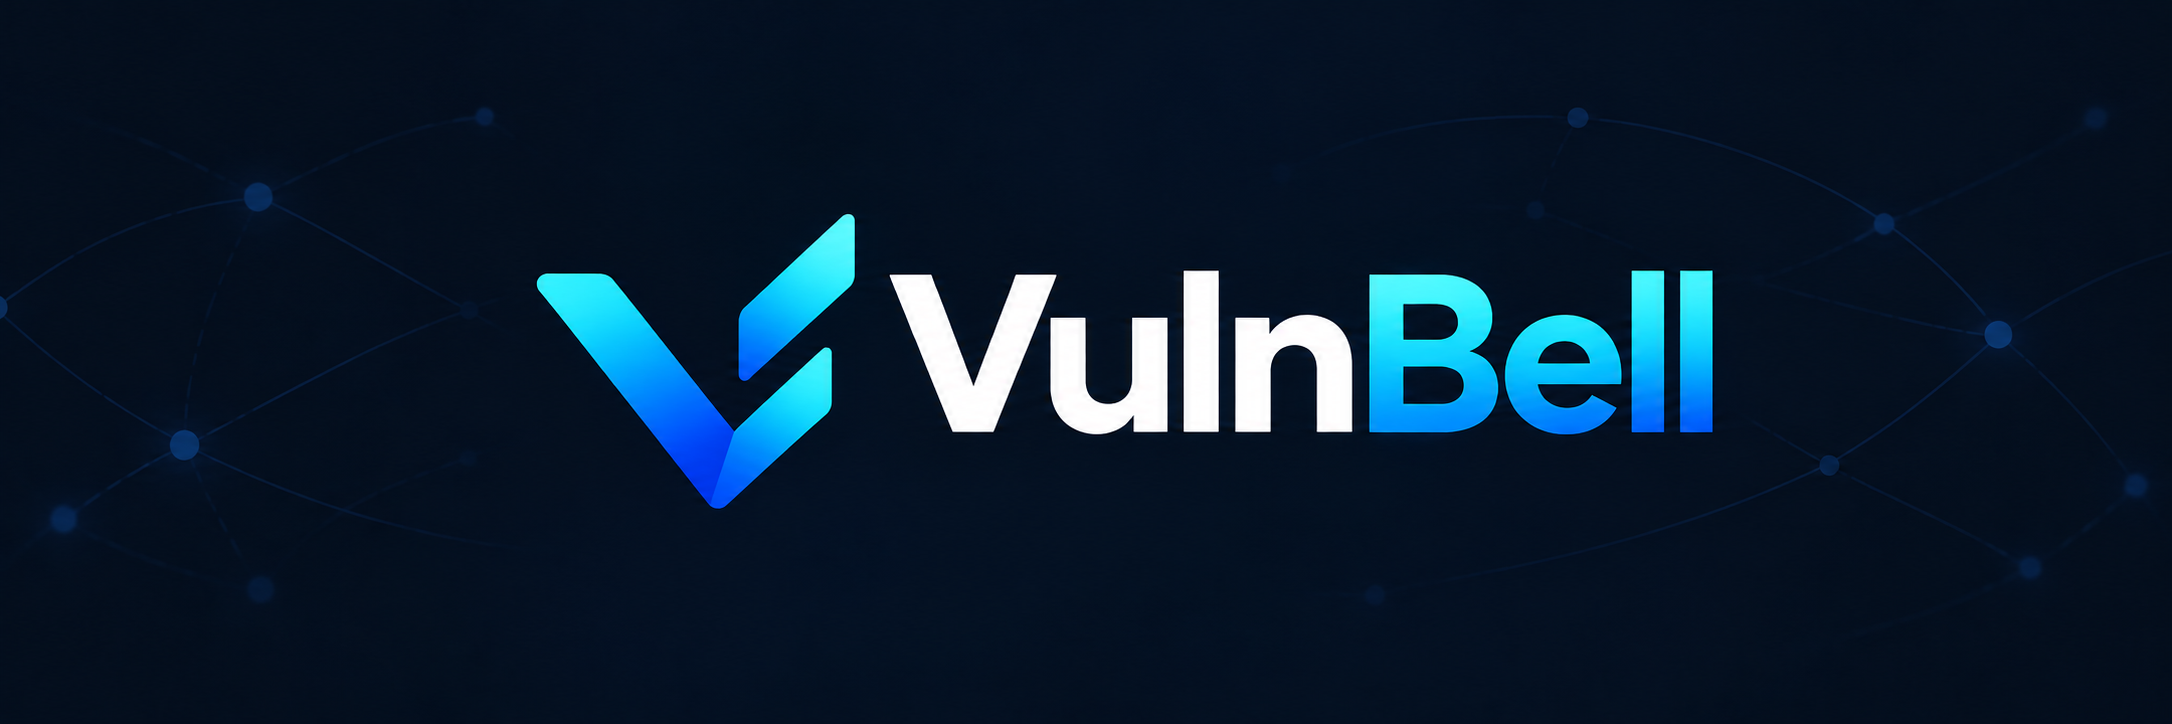
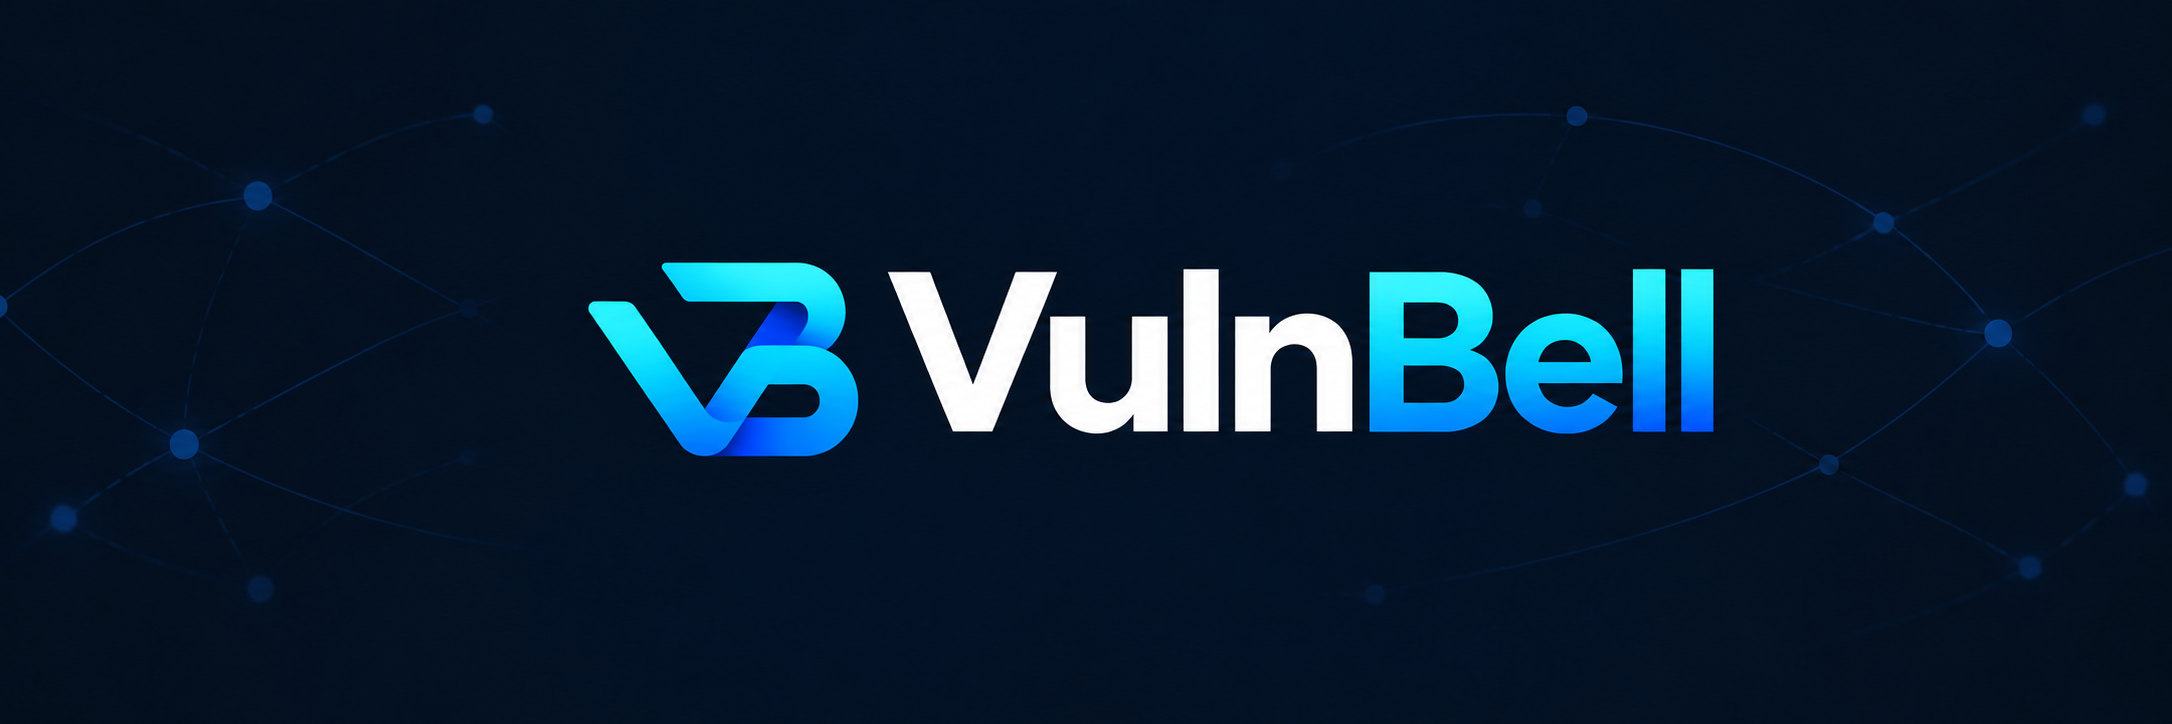
Finalize 0.1.1 branding and release contents

diff --git a/CHANGELOG.md b/CHANGELOG.md
@@ -14,6 +14,7 @@
 - Project schedules reference a machine-local runner ID. Typed adapter settings are configured and checked separately.
 - Project state uses schema 2. Databases from 0.1.0 are rejected without conversion; create new monitors.
 - Scheduled report paths and runner availability are exposed through CLI status.
+- Reports explain each case status and show the evidence, unresolved conditions and next step for cases in review.
 
 ## 0.1.0 - 2026-10-25
 

diff --git a/examples/report.md b/examples/report.md
@@ -1,4 +1,4 @@
-# VulnBell — Sample report
+# VulnBell - Sample report
 
 Cutoff: 2026-10-25 22:52 UTC · Coverage: partial
 
@@ -21,7 +21,7 @@ No workspace or deployment inventory was provided.
 
 ## Actionable
 
-### SIG-d92c7ad148de84684bab — SSE event injection
+### SIG-d92c7ad148de84684bab - SSE event injection
 
 - **Component:** @nestjs/core 10.4.8.
 - **Status:** affected by GHSA-36xv-jgw5-4q75; reproduced in an isolated minimal project.

diff --git a/README.md b/README.md
@@ -1,6 +1,6 @@
 # VulnBell
 
-![VulnBell — software security monitoring with an abstract upstream signal mark](docs/assets/vulnbell-cover.png)
+![VulnBell - software security monitoring with a VB monogram](docs/assets/vulnbell-cover.png)
 
 [![CI](https://github.com/dertin/vulnbell/actions/workflows/ci.yml/badge.svg)](https://github.com/dertin/vulnbell/actions/workflows/ci.yml)
 
